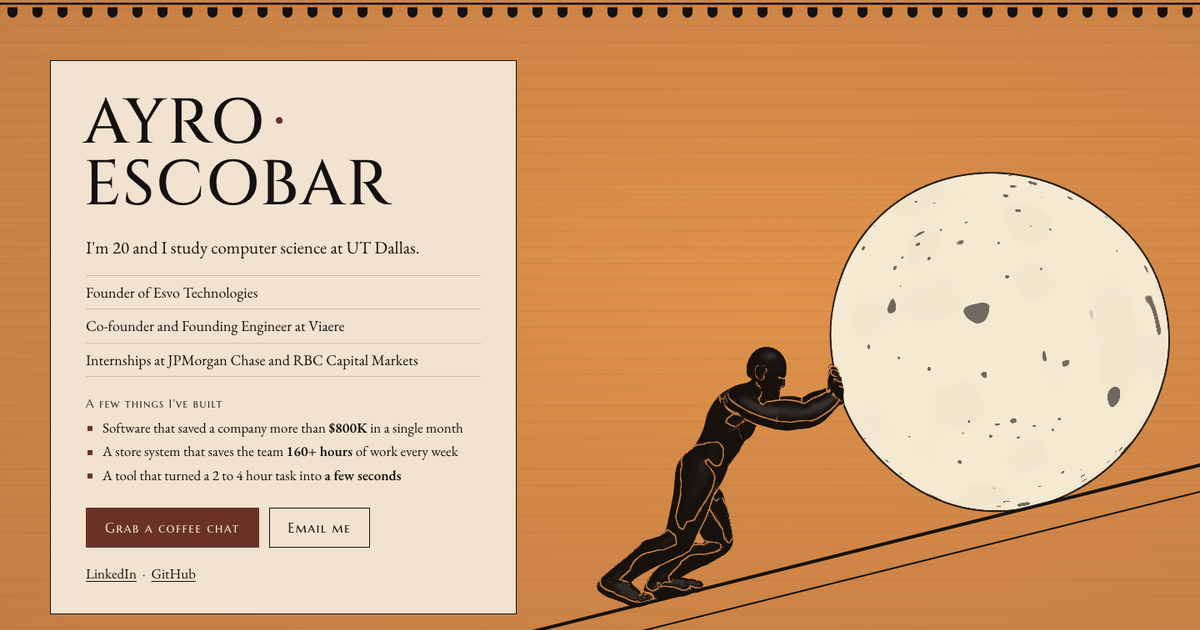
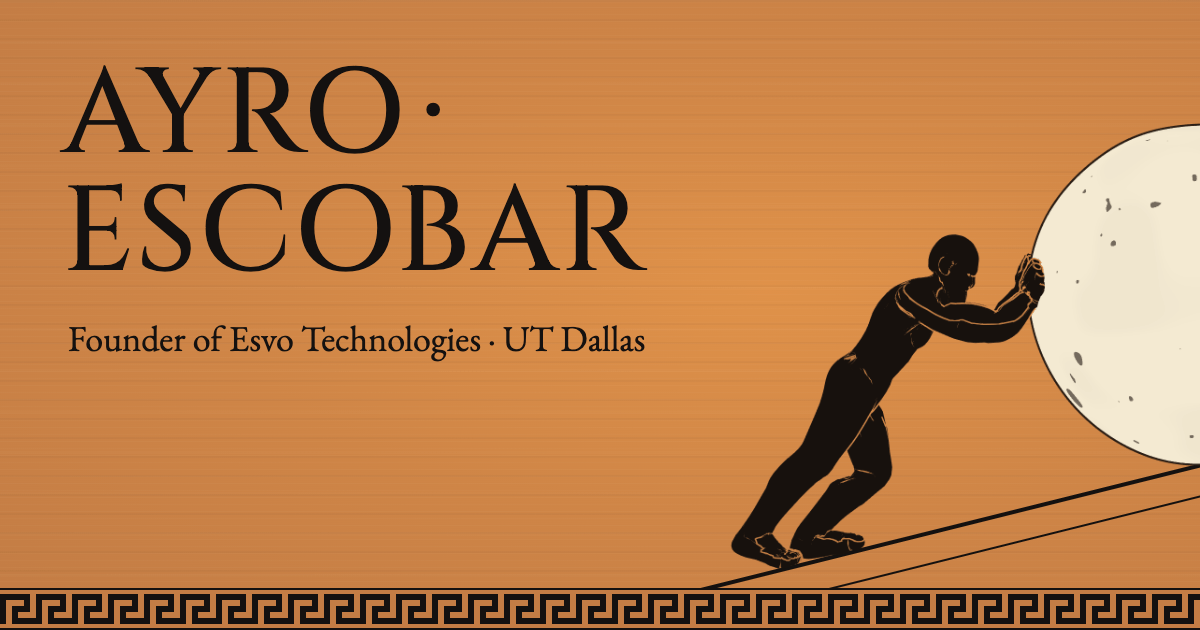
og: a composed 1200x630 card (the name in Cinzel at 120 px, one line, the man and the disk on the ground line, the meander) instead of a crop of the hero with its buttons and small text

diff --git a/frontend/src/content/identity.js b/frontend/src/content/identity.js
@@ -36,4 +36,9 @@ export const HERO = {
   theme: item('hero-theme', 'uphill, on purpose.', ['voice-typing-lines', 'voice-no-shortcut']),
 }
 
+// the social card (scripts/og.mjs renders it into public/og.png): his name and this one line
+export const OG = {
+  line: item('og-line', 'Founder of Esvo Technologies \u00b7 UT\u00a0Dallas', ['ven-esvo', 'identity-student']),
+}
+
 export const SKIP = ui('skip-link', 'skip to content')
